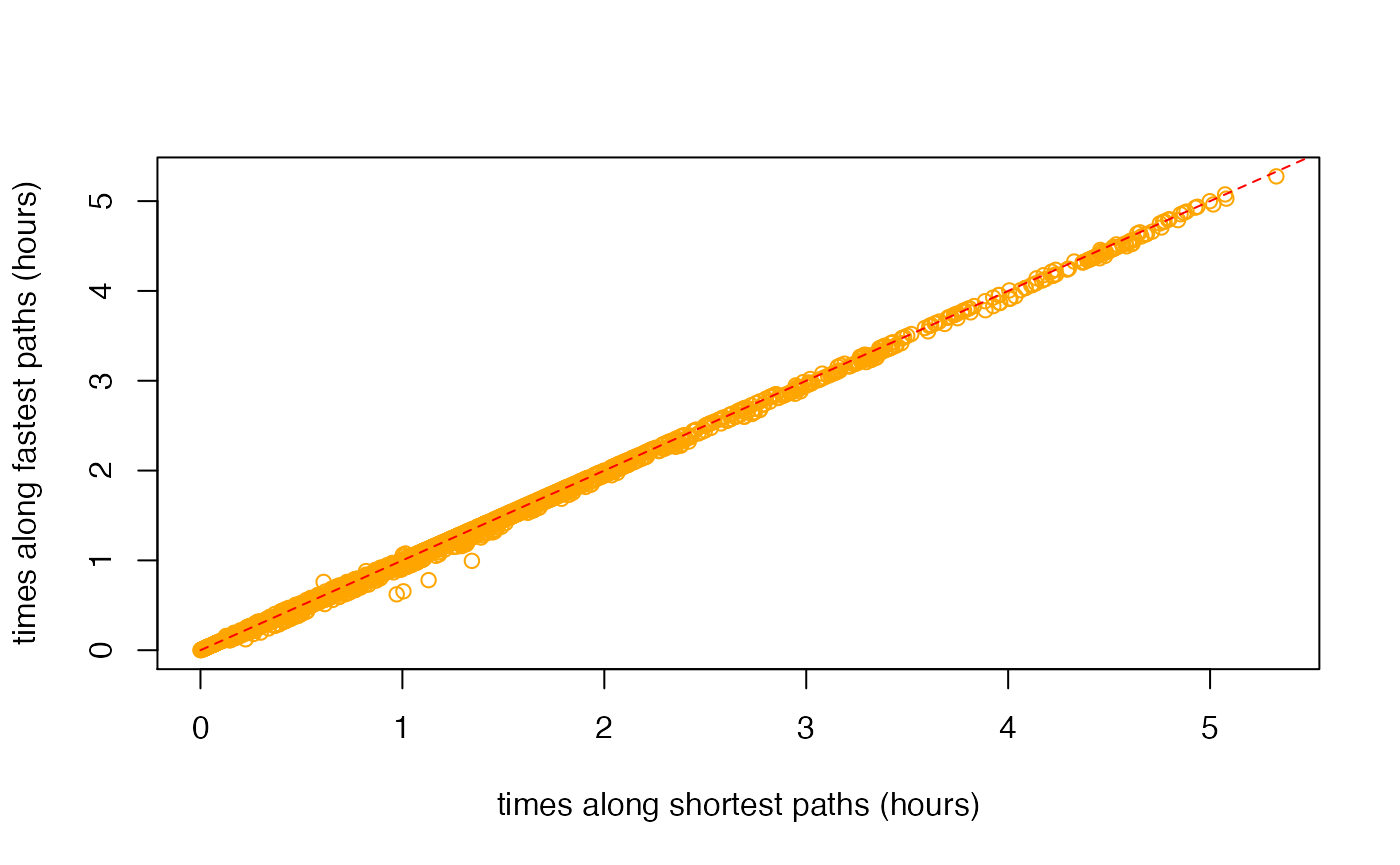
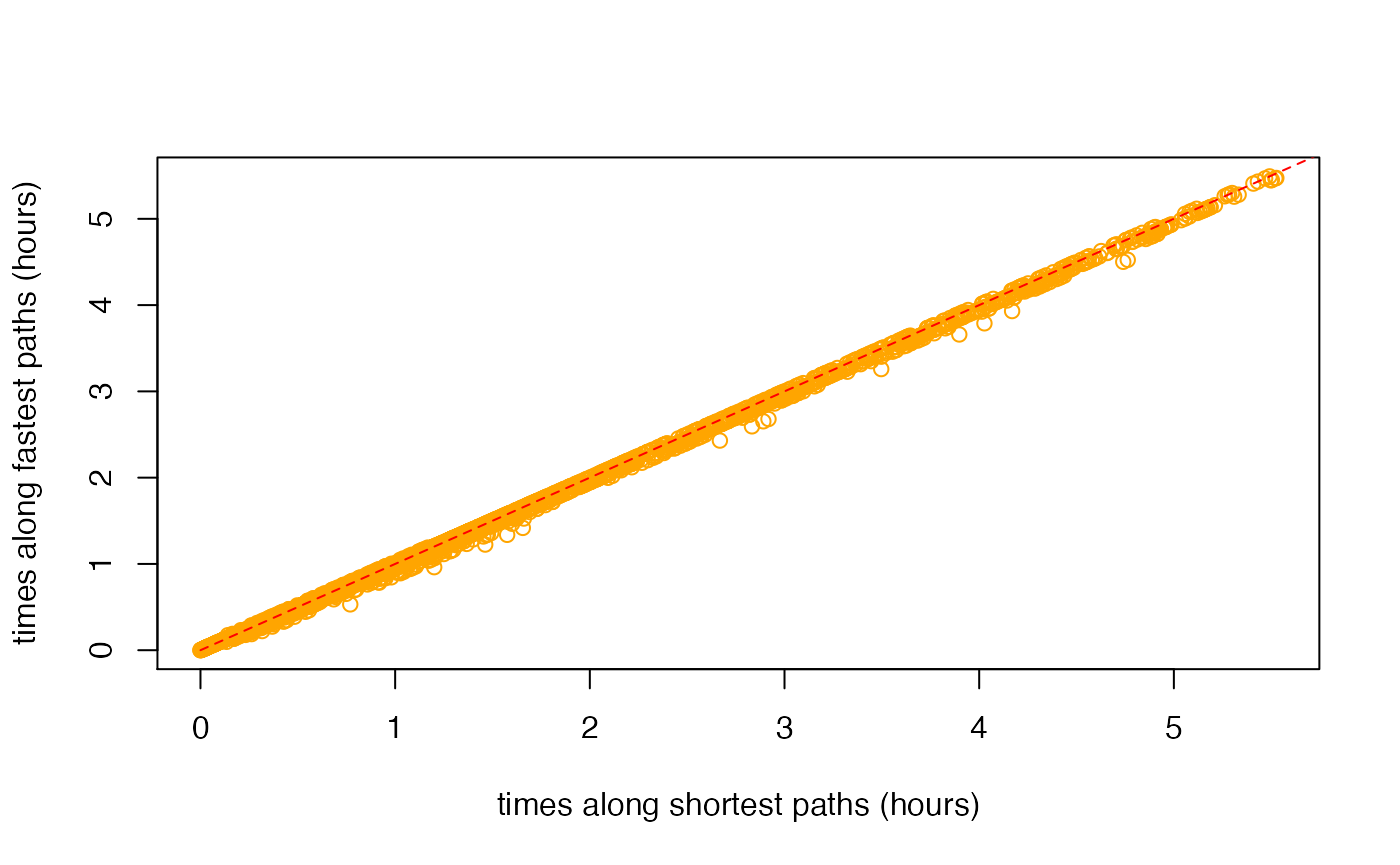
Built site for dodgr: 0.2.7.080@3a83eb5

diff --git a/articles/dodgr.html b/articles/dodgr.html
@@ -31,7 +31,7 @@
       </button>
       <span class="navbar-brand">
         <a class="navbar-link" href="../index.html">dodgr</a>
-        <span class="version label label-default" data-toggle="tooltip" data-placement="bottom" title="Released version">0.2.7.078</span>
+        <span class="version label label-default" data-toggle="tooltip" data-placement="bottom" title="Released version">0.2.7.080</span>
       </span>
     </div>
 
@@ -358,7 +358,7 @@
 <div class="sourceCode" id="cb58"><pre class="downlit sourceCode r">
 <code class="sourceCode R"><span class="va">graph_sub</span> <span class="op">&lt;-</span> <span class="fu"><a href="../reference/dodgr_sample.html">dodgr_sample</a></span> <span class="op">(</span><span class="va">graph</span>, nverts <span class="op">=</span> <span class="fl">100</span><span class="op">)</span>
 <span class="fu"><a href="https://rdrr.io/r/base/nrow.html">nrow</a></span> <span class="op">(</span><span class="va">graph_sub</span><span class="op">)</span></code></pre></div>
-<pre><code>## [1] 216</code></pre>
+<pre><code>## [1] 197</code></pre>
 <p>The random sample has around twice as many edges as vertices, in accordance with the statistics calculated above.</p>
 <div class="sourceCode" id="cb60"><pre class="downlit sourceCode r">
 <code class="sourceCode R"><span class="fu"><a href="https://rdrr.io/r/base/nrow.html">nrow</a></span> <span class="op">(</span><span class="fu"><a href="../reference/dodgr_vertices.html">dodgr_vertices</a></span> <span class="op">(</span><span class="va">graph_sub</span><span class="op">)</span><span class="op">)</span></code></pre></div>
@@ -447,31 +447,31 @@
 <pre><code>## Loading required namespace: rbenchmark</code></pre>
 <pre><code>## Loading required namespace: igraph</code></pre>
 <pre><code>##                                                                                   test
-## 11        d &lt;- dodgr_dists(graph_contracted, from = from_id, to = to_id, heap = "set")
 ## 6       d &lt;- dodgr_dists(graph_contracted, from = from_id, to = to_id, heap = "BHeap")
+## 10     d &lt;- dodgr_dists(graph_contracted, from = from_id, to = to_id, heap = "Heap23")
+## 11        d &lt;- dodgr_dists(graph_contracted, from = from_id, to = to_id, heap = "set")
 ## 7       d &lt;- dodgr_dists(graph_contracted, from = from_id, to = to_id, heap = "FHeap")
 ## 8     d &lt;- dodgr_dists(graph_contracted, from = from_id, to = to_id, heap = "TriHeap")
-## 10     d &lt;- dodgr_dists(graph_contracted, from = from_id, to = to_id, heap = "Heap23")
 ## 9  d &lt;- dodgr_dists(graph_contracted, from = from_id, to = to_id, heap = "TriHeapExt")
 ## 1                  d &lt;- dodgr_dists(graph, from = from_id, to = to_id, heap = "BHeap")
 ## 12                  d &lt;- igraph::distances(igr, v = from_id, to = to_id, mode = "out")
-## 3                d &lt;- dodgr_dists(graph, from = from_id, to = to_id, heap = "TriHeap")
 ## 2                  d &lt;- dodgr_dists(graph, from = from_id, to = to_id, heap = "FHeap")
+## 3                d &lt;- dodgr_dists(graph, from = from_id, to = to_id, heap = "TriHeap")
 ## 5                 d &lt;- dodgr_dists(graph, from = from_id, to = to_id, heap = "Heap23")
 ## 4             d &lt;- dodgr_dists(graph, from = from_id, to = to_id, heap = "TriHeapExt")
 ##    replications elapsed relative user.self sys.self user.child sys.child
-## 11            1   0.003    1.000     0.004    0.000          0         0
-## 6             1   0.004    1.333     0.004    0.000          0         0
-## 7             1   0.004    1.333     0.005    0.000          0         0
-## 8             1   0.004    1.333     0.005    0.000          0         0
-## 10            1   0.004    1.333     0.005    0.001          0         0
-## 9             1   0.005    1.667     0.005    0.000          0         0
-## 1             1   0.010    3.333     0.012    0.000          0         0
-## 12            1   0.010    3.333     0.010    0.000          0         0
-## 3             1   0.012    4.000     0.022    0.000          0         0
-## 2             1   0.014    4.667     0.023    0.001          0         0
-## 5             1   0.014    4.667     0.024    0.001          0         0
-## 4             1   0.023    7.667     0.024    0.000          0         0</code></pre>
+## 6             1   0.004     1.00     0.004    0.000          0         0
+## 10            1   0.004     1.00     0.005    0.000          0         0
+## 11            1   0.004     1.00     0.003    0.000          0         0
+## 7             1   0.005     1.25     0.005    0.000          0         0
+## 8             1   0.005     1.25     0.005    0.001          0         0
+## 9             1   0.005     1.25     0.005    0.000          0         0
+## 1             1   0.010     2.50     0.012    0.001          0         0
+## 12            1   0.010     2.50     0.011    0.000          0         0
+## 2             1   0.016     4.00     0.021    0.000          0         0
+## 3             1   0.016     4.00     0.021    0.000          0         0
+## 5             1   0.017     4.25     0.022    0.000          0         0
+## 4             1   0.022     5.50     0.021    0.000          0         0</code></pre>
 <p>The key column of that <code>data.frame</code> is <code>relative</code>, which quantifies the relative performance of each test in relation to the best which is given a score of 1. <code>dodgr</code> using the default <code>heap = "BHeap"</code>, which is a binary heap priority queue, performs faster than <a href="https://igraph.org"><code>igraph</code></a> <span class="citation">(Csardi and Nepusz 2006)</span> for these graphs. Different kind of graphs will perform differently with different priority queue structures, and this function enables users to empirically discern the optimal heap for their kind of graph.</p>
 <p>Note, however, that this is not an entirely fair comparison, because <code>dodgr</code> calculates dual-weighted distances, whereas <a href="https://igraph.org"><code>igraph</code></a>—and indeed all other <strong>R</strong> packages—only directly calculate distances based on a single set of weights. Implementing dual-weighted routing in these cases requires explicitly re-tracing all paths and summing the second set of weights along each path. A time comparison in that case would be very strongly in favour of <code>dodgr</code>. Moreover, <code>dodgr</code> can convert graphs to contracted form through removing redundant vertices, as detailed in the following section. Doing so greatly improves performance with respect to <a href="https://igraph.org"><code>igraph</code></a>.</p>
 <p>For those wishing to do explicit comparisons themselves, the following code generates the <a href="https://igraph.org"><code>igraph</code></a> equivalent of <a href="https://atfutures.github.io/dodgr/reference/dodgr_distances.html"><code>dodgr_distances()</code></a>, although of course for single-weighted graphs only:</p>
@@ -506,10 +506,10 @@
                        <span class="va">d2</span> <span class="op">&lt;-</span> <span class="fu"><a href="../reference/dodgr_dists.html">dodgr_dists</a></span> <span class="op">(</span><span class="va">graph</span>, from <span class="op">=</span> <span class="va">from</span>, to <span class="op">=</span> <span class="va">to</span><span class="op">)</span>,
                        replications <span class="op">=</span> <span class="fl">2</span><span class="op">)</span></code></pre></div>
 <pre><code>##                                             test replications elapsed relative
-## 2 d2 &lt;- dodgr_dists(graph, from = from, to = to)            2   0.034    4.857
-## 1   d2 &lt;- dodgr_dists(grc, from = from, to = to)            2   0.007    1.000
+## 2 d2 &lt;- dodgr_dists(graph, from = from, to = to)            2   0.033      5.5
+## 1   d2 &lt;- dodgr_dists(grc, from = from, to = to)            2   0.006      1.0
 ##   user.self sys.self user.child sys.child
-## 2     0.044    0.002          0         0
+## 2     0.042    0.001          0         0
 ## 1     0.007    0.000          0         0</code></pre>
 <p>And contracting the graph has a similar effect of speeding up pairwise routing between these 100 points. All routing algorithms scale non-linearly with size, and relative improvements in efficiency will be even greater for larger graphs.</p>
 <div id="routing-on-contracted-graphs" class="section level2">
@@ -524,12 +524,12 @@
 <div class="sourceCode" id="cb90"><pre class="downlit sourceCode r">
 <code class="sourceCode R"><span class="va">verts</span> <span class="op">&lt;-</span> <span class="fu"><a href="https://rdrr.io/r/base/sample.html">sample</a></span> <span class="op">(</span><span class="fu"><a href="../reference/dodgr_vertices.html">dodgr_vertices</a></span> <span class="op">(</span><span class="va">graph</span><span class="op">)</span><span class="op">$</span><span class="va">id</span>, size <span class="op">=</span> <span class="fl">100</span><span class="op">)</span>
 <span class="fu"><a href="https://rdrr.io/r/utils/head.html">head</a></span> <span class="op">(</span><span class="va">verts</span><span class="op">)</span> <span class="co"># a character vector</span></code></pre></div>
-<pre><code>## [1] "339318471"  "2398957736" "2398957889" "286632878"  "340148004" 
-## [6] "1143452373"</code></pre>
+<pre><code>## [1] "2398957600" "1427115977" "3697942890" "2588155713" "338905098" 
+## [6] "4337842062"</code></pre>
 <div class="sourceCode" id="cb92"><pre class="downlit sourceCode r">
 <code class="sourceCode R"><span class="va">grc</span> <span class="op">&lt;-</span> <span class="fu"><a href="../reference/dodgr_contract_graph.html">dodgr_contract_graph</a></span> <span class="op">(</span><span class="va">graph</span>, <span class="va">verts</span><span class="op">)</span>
 <span class="fu"><a href="https://rdrr.io/r/base/nrow.html">nrow</a></span> <span class="op">(</span><span class="va">grc</span><span class="op">)</span></code></pre></div>
-<pre><code>## [1] 852</code></pre>
+<pre><code>## [1] 846</code></pre>
 <p>Retaining the nominated vertices yields a graph with considerably more edges than the fully contracted graph excluding these vertices. The <a href="https://atfutures.github.io/dodgr/reference/dodgr_distances.html"><code>dodgr_distances()</code></a> function can be applied to the latter graph to obtain accurate distances precisely routed between these points, yet using the speed advantages of graph contraction.</p>
 </div>
 </div>
@@ -567,49 +567,36 @@
 <p>The result (<code>dp</code>) is a list of 10 items, each of which contains 5 vectors. An example is,</p>
 <div class="sourceCode" id="cb99"><pre class="downlit sourceCode r">
 <code class="sourceCode R"><span class="va">dp</span> <span class="op">[[</span><span class="fl">1</span><span class="op">]</span><span class="op">]</span> <span class="op">[[</span><span class="fl">1</span><span class="op">]</span><span class="op">]</span></code></pre></div>
-<pre><code>##   [1] "2627465901" "2627465897" "2627465898" "3921517063" "3921517062"
-##   [6] "3921517061" "3921517060" "3921517059" "3921517058" "571423837" 
-##  [11] "571423836"  "571423835"  "339932421"  "339932419"  "339318479" 
-##  [16] "339318478"  "339318477"  "339318476"  "339318473"  "339318471" 
-##  [21] "339318470"  "2636414337" "339318467"  "2636414331" "2636414338"
-##  [26] "339059754"  "977478675"  "1676740773" "4474520824" "245631133" 
-##  [31] "339059758"  "977478643"  "4474520825" "2627477681" "2627477680"
-##  [36] "2627477677" "2627477679" "3456932070" "2627477678" "2627477682"
-##  [41] "339574320"  "2398957885" "2398957883" "286632901"  "1148815150"
-##  [46] "676875132"  "2398957865" "286632900"  "1148814896" "338908589" 
-##  [51] "2398957843" "338904455"  "3697938024" "3697938023" "3697938021"
-##  [56] "3697938022" "3697938335" "3697938334" "3697938333" "3697938338"
-##  [61] "3697938337" "3697938336" "3697938331" "3697938330" "3697938329"
-##  [66] "3697938332" "3697938328" "3697938327" "3697938326" "3697938325"
-##  [71] "3697937571" "3697937610" "3697937615" "3697937614" "3697937613"
-##  [76] "3697937611" "3697937612" "3697937616" "3697937609" "3697937608"
-##  [81] "3697937607" "1376769110" "1376768828" "1376768464" "1376768862"
-##  [86] "1376768398" "1376768975" "1376768614" "1376769209" "1376768918"
-##  [91] "1376768559" "6410121124" "2717241302" "2717241300" "2717241331"
-##  [96] "2717241317" "2717241339" "2717241332" "2717241309" "2717241321"
-## [101] "2717241306" "2717241323" "2717241312" "1376768738" "1376768369"
-## [106] "1376768946" "1376768586" "1560930407" "1376768478" "1376769039"
-## [111] "1376768690" "1376768324" "1376768985" "1376768626" "339574829" 
-## [116] "339574828"  "6228103649" "6228103648" "6228103647" "6228103646"
-## [121] "6228103645" "3818714154" "339574820"  "339574819"  "3818714155"
-## [126] "2398957686" "339574631"  "2717241324" "1148814809" "2398957654"
-## [131] "2398957639" "339574630"  "339574629"  "2398957619" "339574628" 
-## [136] "1427115955" "338905128"  "1376769164" "1376768779" "338905219" 
-## [141] "2398957589" "2398957588" "1376768510" "1376769086" "2398957584"
-## [146] "338905220"  "2398957576" "1427594104" "2398957571" "2398957570"
-## [151] "2398957568" "338905221"  "2398957564" "338905227"</code></pre>
+<pre><code>##  [1] "339574829"  "1376768626" "1376768985" "1376768324" "1376768690"
+##  [6] "1376769039" "1376768478" "1560930407" "1376768586" "1376768946"
+## [11] "1376768369" "1376768738" "2717241312" "2717241323" "2717241306"
+## [16] "2717241321" "2717241309" "2717241332" "2717241339" "2717241317"
+## [21] "2717241331" "2717241300" "2717241302" "6410121124" "1376768559"
+## [26] "1376768918" "1376769209" "1376768614" "1376768975" "1376768398"
+## [31] "1376768862" "1376768464" "1376768828" "1376769110" "3697937607"
+## [36] "3697937608" "3697937609" "3697937616" "3697937612" "3697937611"
+## [41] "3697937613" "3697937614" "3697937615" "3697937610" "3697937571"
+## [46] "3697938325" "3697938326" "3697938327" "3697938328" "3697938332"
+## [51] "3697938329" "3697938330" "3697938331" "3697938336" "3697938337"
+## [56] "3697938338" "3697938333" "3697938334" "3697938335" "3697938022"
+## [61] "3697938021" "3697938023" "3697938024" "338904455"  "2398957843"
+## [66] "338908589"  "1148814896" "286632900"  "2398957865" "676875132" 
+## [71] "1148815150" "286632901"  "2398957883" "2398957885" "339574320" 
+## [76] "2627477682" "339574319"  "339574318"  "339574317"  "339574316" 
+## [81] "339574315"  "339574314"  "2636406742" "339574313"  "4474520829"
+## [86] "977478646"  "339059757"  "339060017"  "1148814953"</code></pre>
 <p>For spatial graphs, the coordinates of these paths can be obtained by extracting the vertices with <code><a href="../reference/dodgr_vertices.html">dodgr_vertices()</a></code> and matching the vertex IDs:</p>
 <div class="sourceCode" id="cb101"><pre class="downlit sourceCode r">
 <code class="sourceCode R"><span class="va">verts</span> <span class="op">&lt;-</span> <span class="fu"><a href="../reference/dodgr_vertices.html">dodgr_vertices</a></span> <span class="op">(</span><span class="va">graph</span><span class="op">)</span>
 <span class="va">path1</span> <span class="op">&lt;-</span> <span class="va">verts</span> <span class="op">[</span><span class="fu"><a href="https://rdrr.io/r/base/match.html">match</a></span> <span class="op">(</span><span class="va">dp</span> <span class="op">[[</span><span class="fl">1</span><span class="op">]</span><span class="op">]</span> <span class="op">[[</span><span class="fl">1</span><span class="op">]</span><span class="op">]</span>, <span class="va">verts</span><span class="op">$</span><span class="va">id</span><span class="op">)</span>, <span class="op">]</span>
 <span class="fu"><a href="https://rdrr.io/r/utils/head.html">head</a></span> <span class="op">(</span><span class="va">path1</span><span class="op">)</span></code></pre></div>
 <pre><code>##              id        x        y component    n
-## 5054 2627465901 76.47225 15.33820         1 2497
-## 5052 2627465897 76.47177 15.33800         1 2496
-## 4158 2627465898 76.47152 15.33769         1 2079
-## 5048 3921517063 76.47140 15.33759         1 2495
-## 5046 3921517062 76.47132 15.33743         1 2494
-## 5044 3921517061 76.47132 15.33719         1 2493</code></pre>
+## 558   339574829 76.47003 15.32047         1  284
+## 2908 1376768626 76.46992 15.32061         1 1463
+## 2910 1376768985 76.46970 15.32073         1 1464
+## 2912 1376768324 76.46949 15.32110         1 1465
+## 2914 1376768690 76.46928 15.32176         1 1466
+## 2916 1376769039 76.46914 15.32207         1 1467</code></pre>
 <p>Paths calculated on contracted graphs will of course have fewer vertices than those calculated on full graphs.</p>
 </div>
 <div id="bibliography" class="section level1 unnumbered">

diff --git a/articles/times.html b/articles/times.html
@@ -31,7 +31,7 @@
       </button>
       <span class="navbar-brand">
         <a class="navbar-link" href="../index.html">dodgr</a>
-        <span class="version label label-default" data-toggle="tooltip" data-placement="bottom" title="Released version">0.2.7.078</span>
+        <span class="version label label-default" data-toggle="tooltip" data-placement="bottom" title="Released version">0.2.7.080</span>
       </span>
     </div>
 
@@ -232,12 +232,12 @@
 <p>The average distance between the two (in metres) is:</p>
 <div class="sourceCode" id="cb9"><pre class="downlit sourceCode r">
 <code class="sourceCode R"><span class="fu"><a href="https://rdrr.io/r/base/mean.html">mean</a></span> <span class="op">(</span><span class="fu"><a href="https://rdrr.io/r/base/MathFun.html">abs</a></span> <span class="op">(</span><span class="va">d_time</span> <span class="op">-</span> <span class="va">d_dist</span><span class="op">)</span>, na.rm <span class="op">=</span> <span class="cn">TRUE</span><span class="op">)</span></code></pre></div>
-<pre><code>## [1] 45.17162</code></pre>
+<pre><code>## [1] 42.27706</code></pre>
 <p>The plot reveals that shortest distances are indeed somewhat shorter than distances along fastest paths, but also that some fastest paths are actually shorter than shortest paths:</p>
 <div class="sourceCode" id="cb11"><pre class="downlit sourceCode r">
 <code class="sourceCode R"><span class="va">index</span> <span class="op">&lt;-</span> <span class="fu"><a href="https://rdrr.io/r/base/which.html">which</a></span> <span class="op">(</span><span class="op">!</span><span class="fu"><a href="https://rdrr.io/r/base/NA.html">is.na</a></span> <span class="op">(</span><span class="va">d_time</span><span class="op">)</span> <span class="op">&amp;</span> <span class="op">!</span><span class="fu"><a href="https://rdrr.io/r/base/NA.html">is.na</a></span> <span class="op">(</span><span class="va">d_dist</span><span class="op">)</span><span class="op">)</span>
 <span class="fu"><a href="https://rdrr.io/r/base/length.html">length</a></span> <span class="op">(</span><span class="fu"><a href="https://rdrr.io/r/base/which.html">which</a></span> <span class="op">(</span><span class="va">d_time</span> <span class="op">[</span><span class="va">index</span><span class="op">]</span> <span class="op">&lt;</span> <span class="va">d_dist</span> <span class="op">[</span><span class="va">index</span><span class="op">]</span><span class="op">)</span><span class="op">)</span> <span class="op">/</span> <span class="fu"><a href="https://rdrr.io/r/base/length.html">length</a></span> <span class="op">(</span><span class="va">index</span><span class="op">)</span></code></pre></div>
-<pre><code>## [1] 0.02811245</code></pre>
+<pre><code>## [1] 0.02703732</code></pre>
 <p>While <code>dodgr</code> and indeed all routing engines attempt to maximally reconcile differences between fastest and shortest routes, there nevertheless remain important discrepancies. Foremost among these, and the primary reason why some fastest routes may in fact be shorter than shortest routes, is that fastest routes allocate preferences for different kinds of way based both on the <code>value</code> column in the <code>weighting_profiles$weighting_profiles</code> table illustrated above, and on the actual maximum speed of a given edge, which itself may be a combination of maximum speeds as specified in OSM itself, maximum speeds from the <code>weighting_profiles$weighting_profiles</code> table, or values specific to a given surface. The result is that some unique combination of maximum speeds along a network may lead to <em>fastest</em> routes being preferentially directed along a path that is actually shorter than the direct shortest path which is calculated independent of maximum speed values.</p>
 <p>Such discrepancies are important in understanding differences in routes <em>times</em> calculated along shortest versus fastest paths. These times can be calculated (in seconds) with the <a href="https://atfutures.github.io/dodgr/reference/dodgr_times.html"><code>dodgr_times()</code></a> function:</p>
 <div class="sourceCode" id="cb13"><pre class="downlit sourceCode r">
@@ -250,12 +250,12 @@
 <p><img src="times_files/figure-html/shortest-vs-fastest-times-1.png" width="700"></p>
 <div class="sourceCode" id="cb14"><pre class="downlit sourceCode r">
 <code class="sourceCode R"><span class="fu"><a href="https://rdrr.io/r/base/mean.html">mean</a></span> <span class="op">(</span><span class="fu"><a href="https://rdrr.io/r/base/MathFun.html">abs</a></span> <span class="op">(</span><span class="va">t_time</span> <span class="op">-</span> <span class="va">t_dist</span><span class="op">)</span>, na.rm <span class="op">=</span> <span class="cn">TRUE</span><span class="op">)</span></code></pre></div>
-<pre><code>## [1] 45.04646</code></pre>
+<pre><code>## [1] 44.10859</code></pre>
 <p>As above, times along fastest paths are generally less than times along shortest paths, although there are again a few exceptions:</p>
 <div class="sourceCode" id="cb16"><pre class="downlit sourceCode r">
 <code class="sourceCode R"><span class="va">index</span> <span class="op">&lt;-</span> <span class="fu"><a href="https://rdrr.io/r/base/which.html">which</a></span> <span class="op">(</span><span class="op">!</span><span class="fu"><a href="https://rdrr.io/r/base/NA.html">is.na</a></span> <span class="op">(</span><span class="va">t_time</span><span class="op">)</span> <span class="op">&amp;</span> <span class="op">!</span><span class="fu"><a href="https://rdrr.io/r/base/NA.html">is.na</a></span> <span class="op">(</span><span class="va">t_dist</span><span class="op">)</span><span class="op">)</span>
 <span class="fu"><a href="https://rdrr.io/r/base/length.html">length</a></span> <span class="op">(</span><span class="fu"><a href="https://rdrr.io/r/base/which.html">which</a></span> <span class="op">(</span><span class="va">t_dist</span> <span class="op">[</span><span class="va">index</span><span class="op">]</span> <span class="op">&lt;</span> <span class="va">t_time</span> <span class="op">[</span><span class="va">index</span><span class="op">]</span><span class="op">)</span><span class="op">)</span> <span class="op">/</span> <span class="fu"><a href="https://rdrr.io/r/base/length.html">length</a></span> <span class="op">(</span><span class="va">index</span><span class="op">)</span></code></pre></div>
-<pre><code>## [1] 0.02008032</code></pre>
+<pre><code>## [1] 0.01713633</code></pre>
 <p>These results demonstrate how the combination of the <a href="https://atfutures.github.io/dodgr/reference/dodgr_distances.html"><code>dodgr_distances()</code></a> and <a href="https://atfutures.github.io/dodgr/reference/dodgr_times.html"><code>dodgr_times()</code></a> functions enable calculation of both distances and times along both shortest and fastest paths.</p>
 <div id="time-based-paths-and-flow-aggregation" class="section level2">
 <h2 class="hasAnchor">

diff --git a/reference/compare_heaps.html b/reference/compare_heaps.html
@@ -76,7 +76,7 @@ dodgr_sample function and passed directly." />
       </button>
       <span class="navbar-brand">
         <a class="navbar-link" href="../index.html">dodgr</a>
-        <span class="version label label-default" data-toggle="tooltip" data-placement="bottom" title="Released version">0.2.7.078</span>
+        <span class="version label label-default" data-toggle="tooltip" data-placement="bottom" title="Released version">0.2.7.080</span>
       </span>
     </div>
 
@@ -160,31 +160,31 @@ fair comparisons, run only once or re-start the current R session.</p>
     <pre class="examples"><div class='input'><span class='va'>graph</span> <span class='op'>&lt;-</span> <span class='fu'><a href='weight_streetnet.html'>weight_streetnet</a></span> <span class='op'>(</span><span class='va'>hampi</span><span class='op'>)</span>
 <span class='fu'>compare_heaps</span> <span class='op'>(</span><span class='va'>graph</span>, nverts <span class='op'>=</span> <span class='fl'>1000</span>, replications <span class='op'>=</span> <span class='fl'>1</span><span class='op'>)</span>
 </div><div class='output co'>#&gt; <span class='message'>Loading required namespace: rbenchmark</span></div><div class='output co'>#&gt; <span class='message'>Loading required namespace: igraph</span></div><div class='output co'>#&gt;                                                                                   test
-#&gt; 8     d &lt;- dodgr_dists(graph_contracted, from = from_id, to = to_id, heap = "TriHeap")
-#&gt; 11        d &lt;- dodgr_dists(graph_contracted, from = from_id, to = to_id, heap = "set")
 #&gt; 6       d &lt;- dodgr_dists(graph_contracted, from = from_id, to = to_id, heap = "BHeap")
+#&gt; 11        d &lt;- dodgr_dists(graph_contracted, from = from_id, to = to_id, heap = "set")
+#&gt; 7       d &lt;- dodgr_dists(graph_contracted, from = from_id, to = to_id, heap = "FHeap")
+#&gt; 8     d &lt;- dodgr_dists(graph_contracted, from = from_id, to = to_id, heap = "TriHeap")
 #&gt; 9  d &lt;- dodgr_dists(graph_contracted, from = from_id, to = to_id, heap = "TriHeapExt")
 #&gt; 10     d &lt;- dodgr_dists(graph_contracted, from = from_id, to = to_id, heap = "Heap23")
-#&gt; 7       d &lt;- dodgr_dists(graph_contracted, from = from_id, to = to_id, heap = "FHeap")
 #&gt; 1                  d &lt;- dodgr_dists(graph, from = from_id, to = to_id, heap = "BHeap")
-#&gt; 5                 d &lt;- dodgr_dists(graph, from = from_id, to = to_id, heap = "Heap23")
 #&gt; 12                  d &lt;- igraph::distances(igr, v = from_id, to = to_id, mode = "out")
-#&gt; 3                d &lt;- dodgr_dists(graph, from = from_id, to = to_id, heap = "TriHeap")
 #&gt; 2                  d &lt;- dodgr_dists(graph, from = from_id, to = to_id, heap = "FHeap")
+#&gt; 3                d &lt;- dodgr_dists(graph, from = from_id, to = to_id, heap = "TriHeap")
+#&gt; 5                 d &lt;- dodgr_dists(graph, from = from_id, to = to_id, heap = "Heap23")
 #&gt; 4             d &lt;- dodgr_dists(graph, from = from_id, to = to_id, heap = "TriHeapExt")
 #&gt;    replications elapsed relative user.self sys.self user.child sys.child
-#&gt; 8             1   0.002      1.0     0.003    0.000          0         0
+#&gt; 6             1   0.002      1.0     0.003    0.000          0         0
 #&gt; 11            1   0.002      1.0     0.003    0.000          0         0
-#&gt; 6             1   0.003      1.5     0.003    0.000          0         0
-#&gt; 9             1   0.003      1.5     0.003    0.000          0         0
+#&gt; 7             1   0.003      1.5     0.003    0.000          0         0
+#&gt; 8             1   0.003      1.5     0.004    0.000          0         0
+#&gt; 9             1   0.003      1.5     0.004    0.000          0         0
 #&gt; 10            1   0.003      1.5     0.004    0.000          0         0
-#&gt; 7             1   0.004      2.0     0.004    0.001          0         0
-#&gt; 1             1   0.008      4.0     0.011    0.001          0         0
-#&gt; 5             1   0.010      5.0     0.020    0.000          0         0
-#&gt; 12            1   0.010      5.0     0.009    0.000          0         0
+#&gt; 1             1   0.007      3.5     0.011    0.001          0         0
+#&gt; 12            1   0.009      4.5     0.009    0.000          0         0
+#&gt; 2             1   0.010      5.0     0.019    0.001          0         0
 #&gt; 3             1   0.011      5.5     0.020    0.000          0         0
-#&gt; 2             1   0.012      6.0     0.019    0.000          0         0
-#&gt; 4             1   0.018      9.0     0.019    0.000          0         0</div></pre>
+#&gt; 5             1   0.011      5.5     0.021    0.000          0         0
+#&gt; 4             1   0.020     10.0     0.019    0.000          0         0</div></pre>
   </div>
   <div class="col-md-3 hidden-xs hidden-sm" id="pkgdown-sidebar">
     <nav id="toc" data-toggle="toc" class="sticky-top">

diff --git a/articles/flows.html b/articles/flows.html
@@ -31,7 +31,7 @@
       </button>
       <span class="navbar-brand">
         <a class="navbar-link" href="../index.html">dodgr</a>
-        <span class="version label label-default" data-toggle="tooltip" data-placement="bottom" title="Released version">0.2.7.078</span>
+        <span class="version label label-default" data-toggle="tooltip" data-placement="bottom" title="Released version">0.2.7.080</span>
       </span>
     </div>
 
@@ -120,7 +120,7 @@
 <div class="sourceCode" id="cb4"><pre class="downlit sourceCode r">
 <code class="sourceCode R"><span class="fu"><a href="https://rdrr.io/r/base/summary.html">summary</a></span> <span class="op">(</span><span class="va">graph_f</span><span class="op">$</span><span class="va">flow</span><span class="op">)</span></code></pre></div>
 <pre><code>##    Min. 1st Qu.  Median    Mean 3rd Qu.    Max. 
-## 0.00000 0.00000 0.00000 0.03459 0.00000 1.29657</code></pre>
+## 0.00000 0.00000 0.00000 0.03703 0.00000 2.19052</code></pre>
 </div>
 <div id="flow-dispersal" class="section level2">
 <h2 class="hasAnchor">
@@ -131,7 +131,7 @@
 <span class="va">graph_f</span> <span class="op">&lt;-</span> <span class="fu"><a href="../reference/dodgr_flows_disperse.html">dodgr_flows_disperse</a></span> <span class="op">(</span><span class="va">graph</span>, from <span class="op">=</span> <span class="va">from</span>, dens <span class="op">=</span> <span class="va">dens</span><span class="op">)</span>
 <span class="fu"><a href="https://rdrr.io/r/base/summary.html">summary</a></span> <span class="op">(</span><span class="va">graph_f</span><span class="op">$</span><span class="va">flow</span><span class="op">)</span></code></pre></div>
 <pre><code>##      Min.   1st Qu.    Median      Mean   3rd Qu.      Max. 
-## 0.000e+00 0.000e+00 2.764e-05 1.674e-03 1.043e-03 7.042e-02</code></pre>
+## 0.0000000 0.0000000 0.0001747 0.0016742 0.0018797 0.0749346</code></pre>
 </div>
 <div id="merging-directed-flows" class="section level2">
 <h2 class="hasAnchor">
@@ -143,7 +143,7 @@
 <div class="sourceCode" id="cb9"><pre class="downlit sourceCode r">
 <code class="sourceCode R"><span class="fu"><a href="https://rdrr.io/r/base/nrow.html">nrow</a></span> <span class="op">(</span><span class="va">graph_f</span><span class="op">)</span>; <span class="fu"><a href="https://rdrr.io/r/base/nrow.html">nrow</a></span> <span class="op">(</span><span class="va">graph_undir</span><span class="op">)</span> <span class="co"># the latter is much smaller</span></code></pre></div>
 <pre><code>## [1] 5973</code></pre>
-<pre><code>## [1] 2973</code></pre>
+<pre><code>## [1] 2867</code></pre>
 <p>The resultant graph can readily be merged with the original graph to regain the original data on vertex coordinates through</p>
 <div class="sourceCode" id="cb12"><pre class="downlit sourceCode r">
 <code class="sourceCode R"><span class="va">graph</span> <span class="op">&lt;-</span> <span class="va">graph</span> <span class="op">[</span><span class="va">graph_undir</span><span class="op">$</span><span class="va">edge_id</span>, <span class="op">]</span>

diff --git a/reference/estimate_centrality_threshold.html b/reference/estimate_centrality_threshold.html
@@ -76,7 +76,7 @@ values of 'dist_threshold' corresponding to specific degrees of accuracy." />
       </button>
       <span class="navbar-brand">
         <a class="navbar-link" href="../index.html">dodgr</a>
-        <span class="version label label-default" data-toggle="tooltip" data-placement="bottom" title="Released version">0.2.7.078</span>
+        <span class="version label label-default" data-toggle="tooltip" data-placement="bottom" title="Released version">0.2.7.080</span>
       </span>
     </div>
 

diff --git a/reference/merge_directed_graph.html b/reference/merge_directed_graph.html
@@ -76,7 +76,7 @@ return columns of aggregated flows directed along each edge of a graph." />
       </button>
       <span class="navbar-brand">
         <a class="navbar-link" href="../index.html">dodgr</a>
-        <span class="version label label-default" data-toggle="tooltip" data-placement="bottom" title="Released version">0.2.7.078</span>
+        <span class="version label label-default" data-toggle="tooltip" data-placement="bottom" title="Released version">0.2.7.080</span>
       </span>
     </div>
 

diff --git a/reference/weighting_profiles.html b/reference/weighting_profiles.html
@@ -75,7 +75,7 @@ type of surface, and waiting times in seconds at traffic lights." />
       </button>
       <span class="navbar-brand">
         <a class="navbar-link" href="../index.html">dodgr</a>
-        <span class="version label label-default" data-toggle="tooltip" data-placement="bottom" title="Released version">0.2.7.078</span>
+        <span class="version label label-default" data-toggle="tooltip" data-placement="bottom" title="Released version">0.2.7.080</span>
       </span>
     </div>
 

diff --git a/reference/dodgr_uncontract_graph.html b/reference/dodgr_uncontract_graph.html
@@ -75,7 +75,7 @@ on to the original graph, as demonstrated in the example." />
       </button>
       <span class="navbar-brand">
         <a class="navbar-link" href="../index.html">dodgr</a>
-        <span class="version label label-default" data-toggle="tooltip" data-placement="bottom" title="Released version">0.2.7.078</span>
+        <span class="version label label-default" data-toggle="tooltip" data-placement="bottom" title="Released version">0.2.7.080</span>
       </span>
     </div>
 

diff --git a/reference/dodgr_isoverts.html b/reference/dodgr_isoverts.html
@@ -76,7 +76,7 @@ isodistances, or one or more tlim values for isochrones." />
       </button>
       <span class="navbar-brand">
         <a class="navbar-link" href="../index.html">dodgr</a>
-        <span class="version label label-default" data-toggle="tooltip" data-placement="bottom" title="Released version">0.2.7.078</span>
+        <span class="version label label-default" data-toggle="tooltip" data-placement="bottom" title="Released version">0.2.7.080</span>
       </span>
     </div>
 

diff --git a/reference/dodgr_cache_on.html b/reference/dodgr_cache_on.html
@@ -73,7 +73,7 @@ after caching has been turned off with dodgr_cache_off." />
       </button>
       <span class="navbar-brand">
         <a class="navbar-link" href="../index.html">dodgr</a>
-        <span class="version label label-default" data-toggle="tooltip" data-placement="bottom" title="Released version">0.2.7.078</span>
+        <span class="version label label-default" data-toggle="tooltip" data-placement="bottom" title="Released version">0.2.7.080</span>
       </span>
     </div>
 

diff --git a/reference/weight_streetnet.html b/reference/weight_streetnet.html
@@ -74,7 +74,7 @@ bicycle, moped, motorcycle, motorcar, goods, hgv, psv)." />
       </button>
       <span class="navbar-brand">
         <a class="navbar-link" href="../index.html">dodgr</a>
-        <span class="version label label-default" data-toggle="tooltip" data-placement="bottom" title="Released version">0.2.7.078</span>
+        <span class="version label label-default" data-toggle="tooltip" data-placement="bottom" title="Released version">0.2.7.080</span>
       </span>
     </div>
 

diff --git a/reference/dodgr_sflines_to_poly.html b/reference/dodgr_sflines_to_poly.html
@@ -73,7 +73,7 @@ fundamental cycles within the LINESTRING objects." />
       </button>
       <span class="navbar-brand">
         <a class="navbar-link" href="../index.html">dodgr</a>
-        <span class="version label label-default" data-toggle="tooltip" data-placement="bottom" title="Released version">0.2.7.078</span>
+        <span class="version label label-default" data-toggle="tooltip" data-placement="bottom" title="Released version">0.2.7.080</span>
       </span>
     </div>
 
